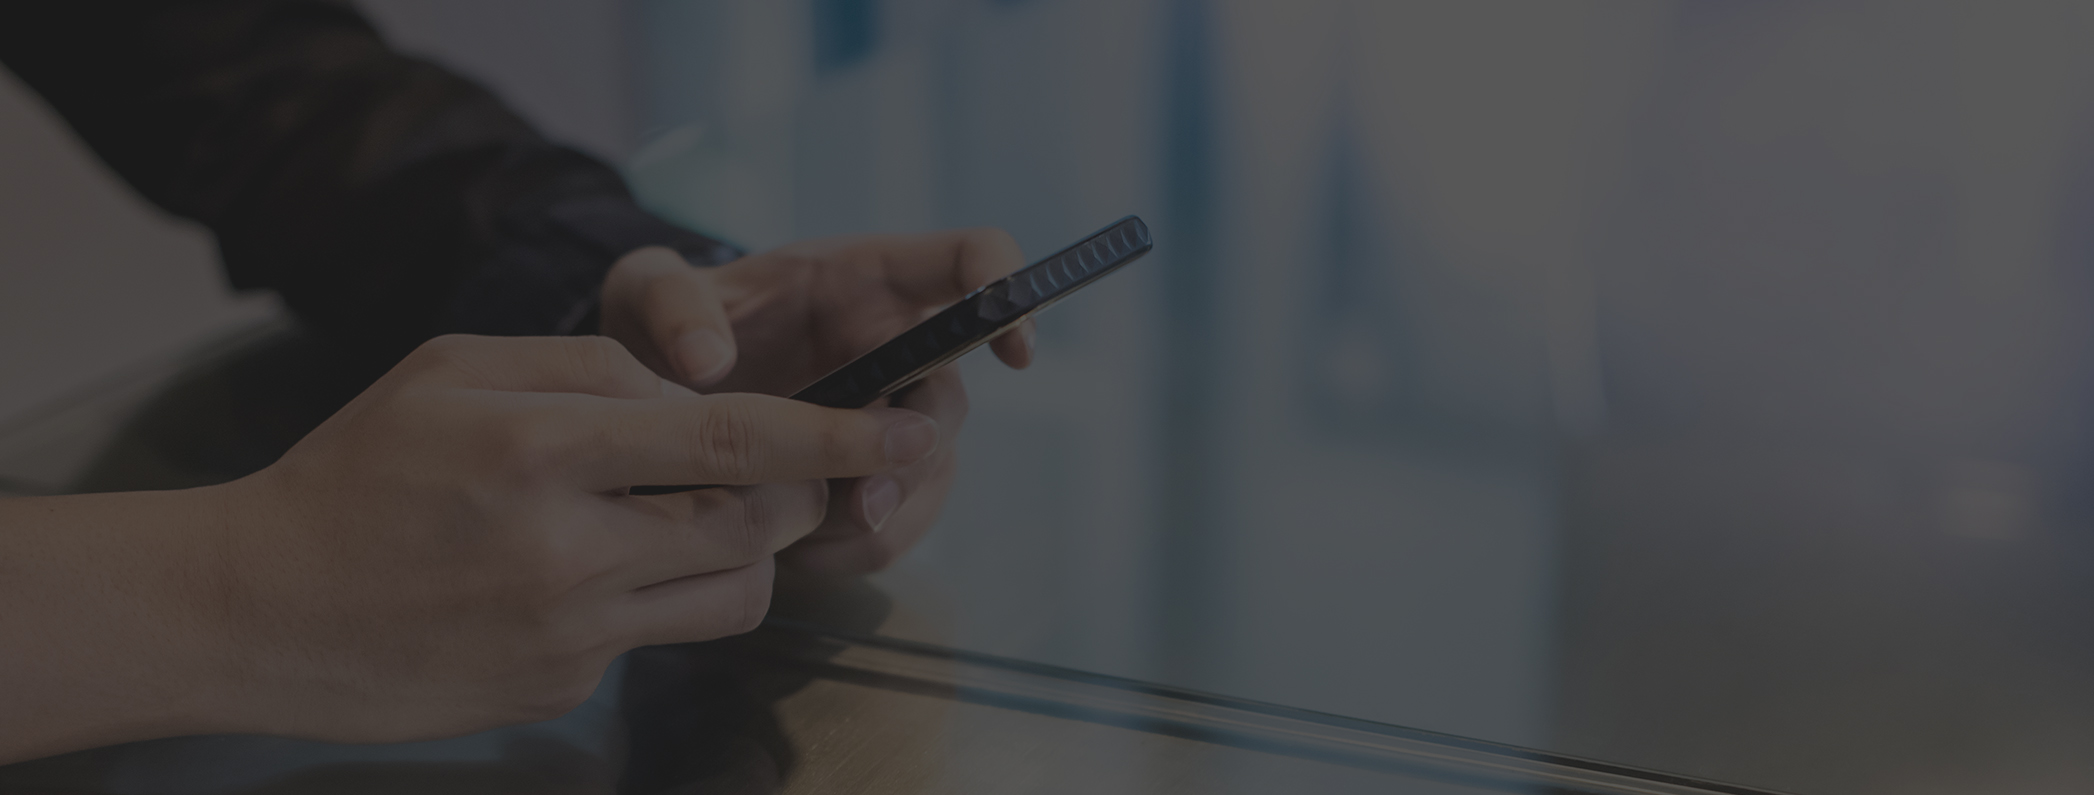
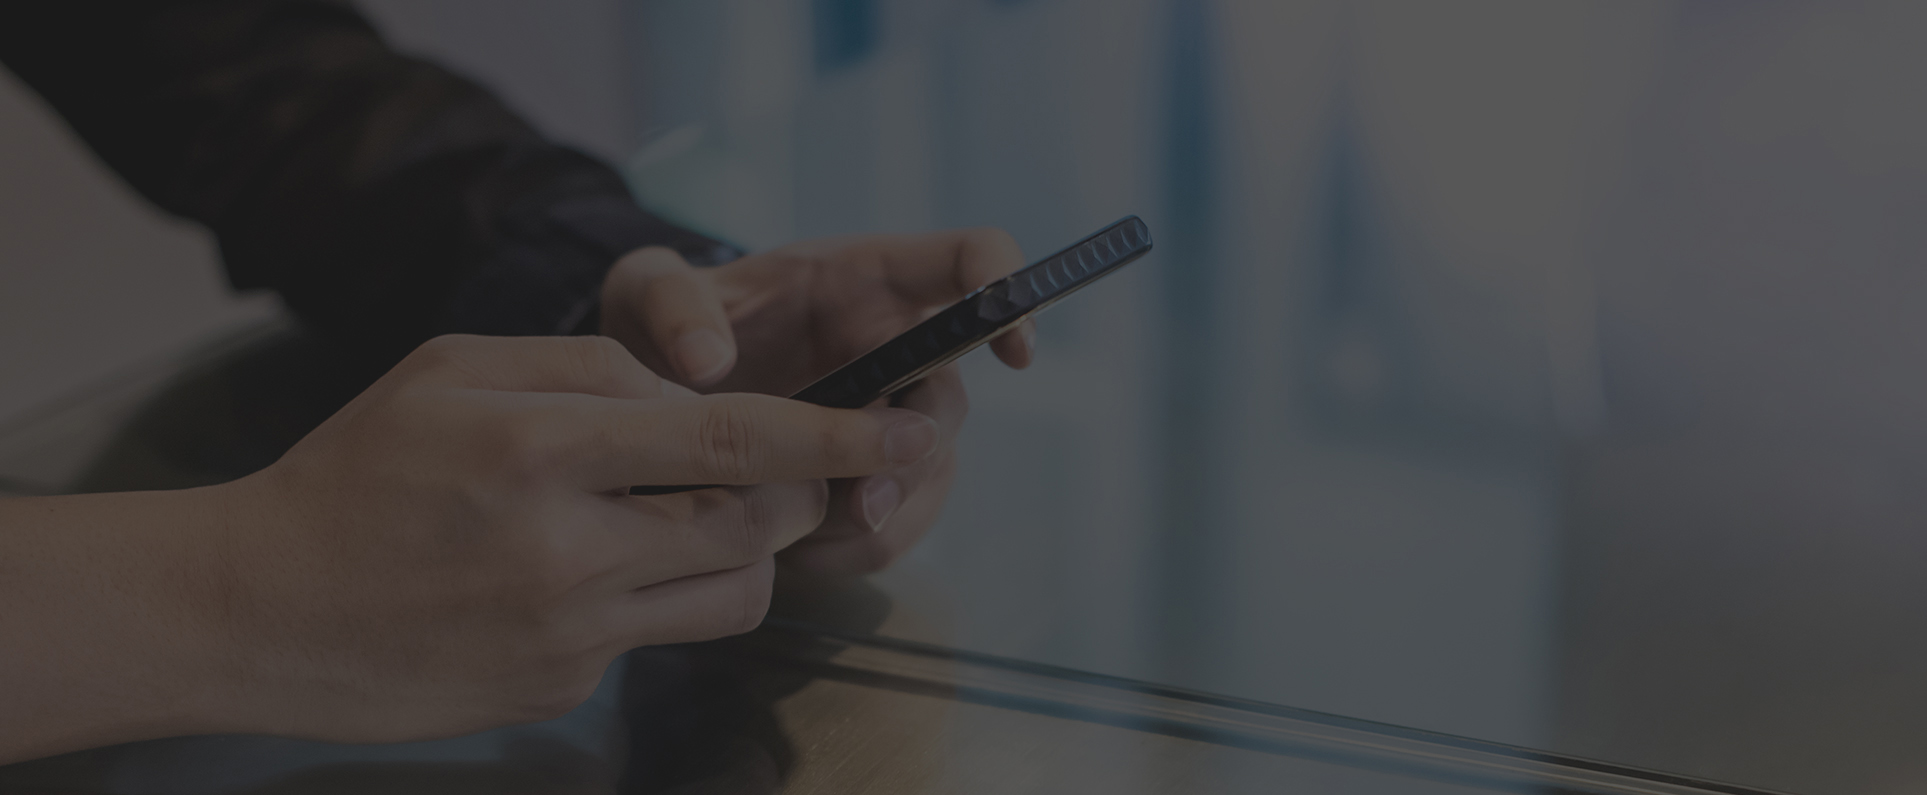
fix hero image resize issue

diff --git a/client/src/components/styles.scss b/client/src/components/styles.scss
@@ -50,14 +50,20 @@
   position: relative;
 
   .hero-image {
-    width: 130%;
+    // width: 100vw;
+    position: relative;
+    object-fit: cover;
+    // left: 50%;
+    // right: 50%;
+    margin-left: -50vw;
+    margin-right: -50vw;
     border-bottom: 4px solid #eb6e1f;
-    @media (max-width: 1300px) {
-      width: 140%;
-    }
+    // @media (max-width: 10px) {
+    //   width: 140%;
+    // }
 
-    @media (max-width: 1150px) {
-      width: 160%;
+    @media (min-width: 1930px) {
+      width: 100vw;
     }
   }
 
@@ -96,11 +102,11 @@
   width: 100%;
   z-index: 1000;
 
-  @media (max-width: 1300px) {
-    margin: -50px auto;
-  }
-  @media (max-width: 1250px) {
+  @media (max-width: 1750px) {
     margin: -40px auto;
+  }
+  @media (max-width: 1400px) {
+    margin: -40px -20px;
   }
 }
 
